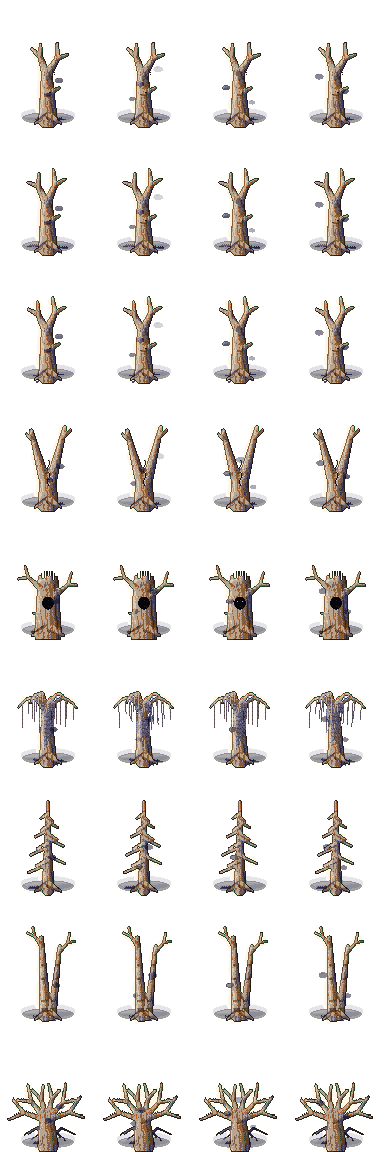
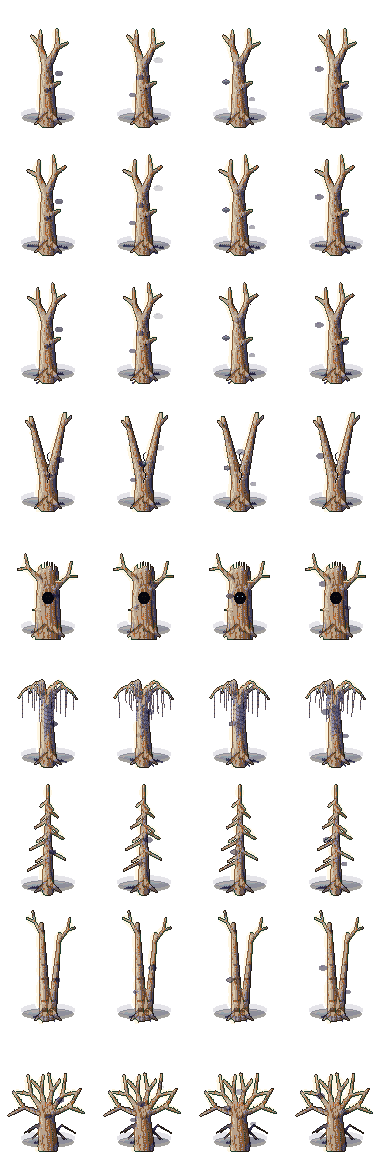
Dead trees taller: heights x2 from the 64 px design (was x1.7), still inside the 96x128 cell

diff --git a/Project_T/tools/environment_art/heartwood_grounds.html b/Project_T/tools/environment_art/heartwood_grounds.html
@@ -590,9 +590,9 @@ const HEART_BARK = ["#1a0e08", "#3a2414", "#5e3c20", "#8a5e34"];
 const DEAD = ["#241a16", "#56463c", "#8a7462", "#bca38c"];
 // Dead trees are 96×128: the bottom 64 px rows are their cell (base and shadow where the old 64 px
 // base was), centred, so 16 px overhang each side and the top 64 px the cell above. Heights above the
-// base (design y 56) are × 1.7, widths × 1.3 (TX_W) around the centre (design x 32).
+// base (design y 56) are × 2, widths × 1.3 (TX_W) around the centre (design x 32).
 const TREE_W = 96, TREE_H = 128;
-const TREE_TT = y => 120 + (y - 56) * 1.7;
+const TREE_TT = y => 120 + (y - 56) * 2.0;
 const TREE_TX = x => 48 + (x - 32) * TX_W;
 function withered(A, f, seed) {
   // Pale bark on the lit side so the tree reads as a pale shape on dark grass (value order).
